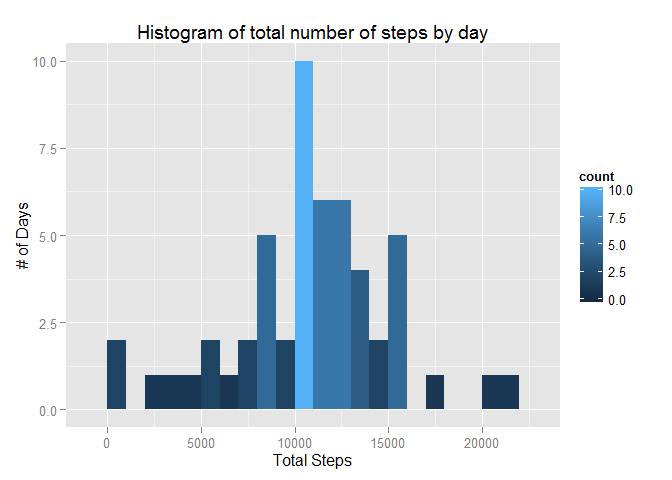
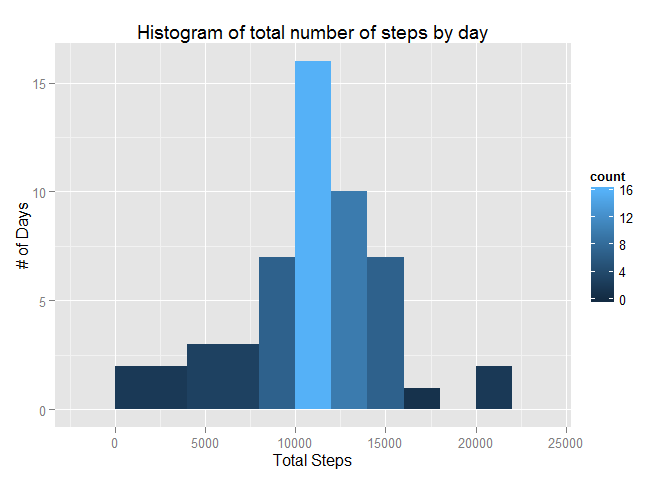
partial work, question 3

diff --git a/PA1_template.html b/PA1_template.html
@@ -201,18 +201,6 @@ hr {
 </head>
 
 <body>
-<pre><code>## 
-## Attaching package: &#39;dplyr&#39;
-## 
-## The following object is masked from &#39;package:stats&#39;:
-## 
-##     filter
-## 
-## The following objects are masked from &#39;package:base&#39;:
-## 
-##     intersect, setdiff, setequal, union
-</code></pre>
-
 <h2>Loading and preprocessing the data</h2>
 
 <p>We create a temporary data dir to unzip the data file if it wasn&#39;t unzipped already.
@@ -236,21 +224,27 @@ activity &lt;- read.csv(&quot;./data/activity.csv&quot;)
 
 <h2>What is mean total number of steps taken per day?</h2>
 
-<pre><code class="r">activity_per_day &lt;- activity %&gt;%
-  filter(! is.na(steps)) %&gt;%
-  group_by(date) %&gt;%
-  summarise( total_steps = sum(steps, na.rm = TRUE))
+<p>We calculate the total number of steps taken each day while ommitting the missing values. The result is saved in the data frame activity_per_day.</p>
 
-g &lt;- ggplot(activity_per_day, aes(x=total_steps)) +
-      geom_histogram(binwidth=1000, aes(fill = ..count..)) +
-      labs(x=&quot;Total Steps&quot;, y=&quot;# of Days&quot;, title=&quot;Histogram of total number of steps by day&quot;)
+<pre><code class="r">activity_per_day &lt;- activity %&gt;%
+                      filter(! is.na(steps)) %&gt;%
+                      group_by(date) %&gt;%
+                      summarise( total_steps = sum(steps, na.rm = TRUE))
+</code></pre>
+
+<p>We create the histogram of the total number of steps taken each day. The bin width is 2000 steps.</p>
+
+<pre><code class="r">g &lt;- ggplot(activity_per_day, aes(x=total_steps)) +
+      geom_histogram(binwidth=2000, aes(fill = ..count..)) +
+      labs(x=&quot;Total Steps Taken&quot;, y=&quot;Frequencies (Days)&quot;, title=&quot;Histogram of total number of steps taken each day&quot;)
 print(g)
 </code></pre>
 
[2 lines of base64/hex data omitted]
 
-<pre><code class="r"># calculate the mean and median total steps by day
-mean(activity_per_day$total_steps)
+<p>Median and Mean of the total number of steps taken per day.</p>
+
+<pre><code class="r">mean(activity_per_day$total_steps)
 </code></pre>
 
 <pre><code>## [1] 10766.19
@@ -264,7 +258,95 @@ mean(activity_per_day$total_steps)
 
 <h2>What is the average daily activity pattern?</h2>
 
+<p>We calculate the daily activity pattern by grouping the data by interval and taking the average number of steps per interval. We ommit the missing data for this calculation.</p>
+
+<pre><code class="r">daily_activity_pattern &lt;- activity %&gt;%
+                            filter(! is.na(steps)) %&gt;%
+                            group_by(interval) %&gt;%
+                            summarise( mean_steps = mean(steps, na.rm = TRUE))
+</code></pre>
+
+<p>We create a time series plot of the 5-minute interval (x-axis) and the average number of steps taken, averaged across all days (y-axis)</p>
+
+<pre><code class="r">g &lt;- ggplot(daily_activity_pattern, aes(x = interval, y = mean_steps)) + 
+  geom_line() + 
+  labs(x=&quot;5-minute interval &quot;, y=&quot;Number of steps taken, averaged across all days&quot;, title=&quot;Average daily activity pattern&quot;)
+print(g)
+</code></pre>
+
[1 lines of base64/hex data omitted]
+
+<p>The 5-minute interval, on average across all the days in the dataset, containing the maximum number of steps is the interval 835 with 206 steps.</p>
+
+<pre><code class="r">daily_activity_pattern[which.max(daily_activity_pattern$mean_steps), ]
+</code></pre>
+
+<pre><code>## Source: local data frame [1 x 2]
+## 
+##   interval mean_steps
+## 1      835   206.1698
+</code></pre>
+
 <h2>Imputing missing values</h2>
+
+<p>There are 2304 intervals with missign steps data.</p>
+
+<pre><code class="r">sum(is.na(activity))
+</code></pre>
+
+<pre><code>## [1] 2304
+</code></pre>
+
+<p>We create a new dataset with the missing value filled. Each missing value is replaced by the average of the activity for the same 5-minute interval in other days.</p>
+
+<pre><code class="r"># data frame of average steps per 5-minute interval
+mean_steps_per_interval &lt;- activity %&gt;%
+                            filter(! is.na(steps)) %&gt;%
+                            group_by(interval) %&gt;%
+                            summarise( mean_steps = mean(steps, na.rm = TRUE))
+
+activity_no_missing &lt;- activity
+
+# fill the missing value with the average activity for the same 5-minute interval
+for (i in which(is.na(activity)))
+    {
+    activity_no_missing[i,1] &lt;- mean_steps_per_interval[mean_steps_per_interval$interval==activity_no_missing[i,3],]$mean_steps
+    }
+</code></pre>
+
+<p>We calculate the total number of steps taken each day with the dataset containing the filled missed values. The result is saved in the data frame activity_per_day_no_missing.</p>
+
+<pre><code class="r">activity_per_day_no_missing &lt;- activity_no_missing %&gt;%
+                                filter(! is.na(steps)) %&gt;%
+                                group_by(date) %&gt;%
+                                summarise( total_steps = sum(steps, na.rm = TRUE))
+</code></pre>
+
+<p>We create the histogram of the total number of steps taken each day. The bin width is 2000 steps.</p>
+
+<pre><code class="r">g &lt;- ggplot(activity_per_day_no_missing, aes(x=total_steps)) +
+      geom_histogram(binwidth=2000, aes(fill = ..count..)) +
+      labs(x=&quot;Total Steps Taken&quot;, y=&quot;Frequencies (Days)&quot;, title=&quot;Histogram of total number of steps taken each day&quot;)
+print(g)
+</code></pre>
+
[1 lines of base64/hex data omitted]
+
+<p>Median and Mean of the total number of steps taken per day for the dataset with missing values filled.</p>
+
+<pre><code class="r">mean(activity_per_day_no_missing$total_steps)
+</code></pre>
+
+<pre><code>## [1] 10766.19
+</code></pre>
+
+<pre><code class="r">median(activity_per_day_no_missing$total_steps)
+</code></pre>
+
+<pre><code>## [1] 10766.19
+</code></pre>
+
+<p>The mean is the same as in the original dataset, the median is little greater and now equal to the mean.</p>
 
 <h2>Are there differences in activity patterns between weekdays and weekends?</h2>
 

diff --git a/PA1_template.md b/PA1_template.md
@@ -6,18 +6,6 @@ output:
 ---
 
 
-```
-## 
-## Attaching package: 'dplyr'
-## 
-## The following object is masked from 'package:stats':
-## 
-##     filter
-## 
-## The following objects are masked from 'package:base':
-## 
-##     intersect, setdiff, setequal, union
-```
 
 ## Loading and preprocessing the data
 
@@ -43,23 +31,32 @@ We do not do any data preprocessing at this stage.
 
 ## What is mean total number of steps taken per day?
 
+We calculate the total number of steps taken each day while ommitting the missing values. The result is saved in the data frame activity_per_day.
+
 
 ```r
 activity_per_day <- activity %>%
-  filter(! is.na(steps)) %>%
-  group_by(date) %>%
-  summarise( total_steps = sum(steps, na.rm = TRUE))
+                      filter(! is.na(steps)) %>%
+                      group_by(date) %>%
+                      summarise( total_steps = sum(steps, na.rm = TRUE))
+```
 
+We create the histogram of the total number of steps taken each day. The bin width is 2000 steps.
+
+
+```r
 g <- ggplot(activity_per_day, aes(x=total_steps)) +
-      geom_histogram(binwidth=1000, aes(fill = ..count..)) +
-      labs(x="Total Steps", y="# of Days", title="Histogram of total number of steps by day")
+      geom_histogram(binwidth=2000, aes(fill = ..count..)) +
+      labs(x="Total Steps Taken", y="Frequencies (Days)", title="Histogram of total number of steps taken each day")
 print(g)
 ```
 
-![plot of chunk unnamed-chunk-3](figure/unnamed-chunk-3-1.png) 
+![plot of chunk unnamed-chunk-4](figure/unnamed-chunk-4-1.png) 
+
+Median and Mean of the total number of steps taken per day.
+
 
 ```r
-# calculate the mean and median total steps by day
 mean(activity_per_day$total_steps)
 ```
 
@@ -78,10 +75,116 @@ median(activity_per_day$total_steps)
 
 ## What is the average daily activity pattern?
 
+We calculate the daily activity pattern by grouping the data by interval and taking the average number of steps per interval. We ommit the missing data for this calculation.
+
+
+```r
+daily_activity_pattern <- activity %>%
+                            filter(! is.na(steps)) %>%
+                            group_by(interval) %>%
+                            summarise( mean_steps = mean(steps, na.rm = TRUE))
+```
+
+We create a time series plot of the 5-minute interval (x-axis) and the average number of steps taken, averaged across all days (y-axis)
+
+
+```r
+g <- ggplot(daily_activity_pattern, aes(x = interval, y = mean_steps)) + 
+  geom_line() + 
+  labs(x="5-minute interval ", y="Number of steps taken, averaged across all days", title="Average daily activity pattern")
+print(g)
+```
+
+![plot of chunk unnamed-chunk-7](figure/unnamed-chunk-7-1.png) 
+
+The 5-minute interval, on average across all the days in the dataset, containing the maximum number of steps is the interval 835 with 206 steps.
+
+
+```r
+daily_activity_pattern[which.max(daily_activity_pattern$mean_steps), ]
+```
+
+```
+## Source: local data frame [1 x 2]
+## 
+##   interval mean_steps
+## 1      835   206.1698
+```
 
 
 ## Imputing missing values
 
+There are 2304 intervals with missign steps data.
 
+
+```r
+sum(is.na(activity))
+```
+
+```
+## [1] 2304
+```
+
+We create a new dataset with the missing value filled. Each missing value is replaced by the average of the activity for the same 5-minute interval in other days.
+
+
+```r
+# data frame of average steps per 5-minute interval
+mean_steps_per_interval <- activity %>%
+                            filter(! is.na(steps)) %>%
+                            group_by(interval) %>%
+                            summarise( mean_steps = mean(steps, na.rm = TRUE))
+
+activity_no_missing <- activity
+
+# fill the missing value with the average activity for the same 5-minute interval
+for (i in which(is.na(activity)))
+    {
+    activity_no_missing[i,1] <- mean_steps_per_interval[mean_steps_per_interval$interval==activity_no_missing[i,3],]$mean_steps
+    }
+```
+
+We calculate the total number of steps taken each day with the dataset containing the filled missed values. The result is saved in the data frame activity_per_day_no_missing.
+
+
+```r
+activity_per_day_no_missing <- activity_no_missing %>%
+                                filter(! is.na(steps)) %>%
+                                group_by(date) %>%
+                                summarise( total_steps = sum(steps, na.rm = TRUE))
+```
+
+We create the histogram of the total number of steps taken each day. The bin width is 2000 steps.
+
+
+```r
+g <- ggplot(activity_per_day_no_missing, aes(x=total_steps)) +
+      geom_histogram(binwidth=2000, aes(fill = ..count..)) +
+      labs(x="Total Steps Taken", y="Frequencies (Days)", title="Histogram of total number of steps taken each day")
+print(g)
+```
+
+![plot of chunk unnamed-chunk-12](figure/unnamed-chunk-12-1.png) 
+
+Median and Mean of the total number of steps taken per day for the dataset with missing values filled.
+
+
+```r
+mean(activity_per_day_no_missing$total_steps)
+```
+
+```
+## [1] 10766.19
+```
+
+```r
+median(activity_per_day_no_missing$total_steps)
+```
+
+```
+## [1] 10766.19
+```
+
+The mean is the same as in the original dataset, the median is little greater and now equal to the mean.
 
 ## Are there differences in activity patterns between weekdays and weekends?
